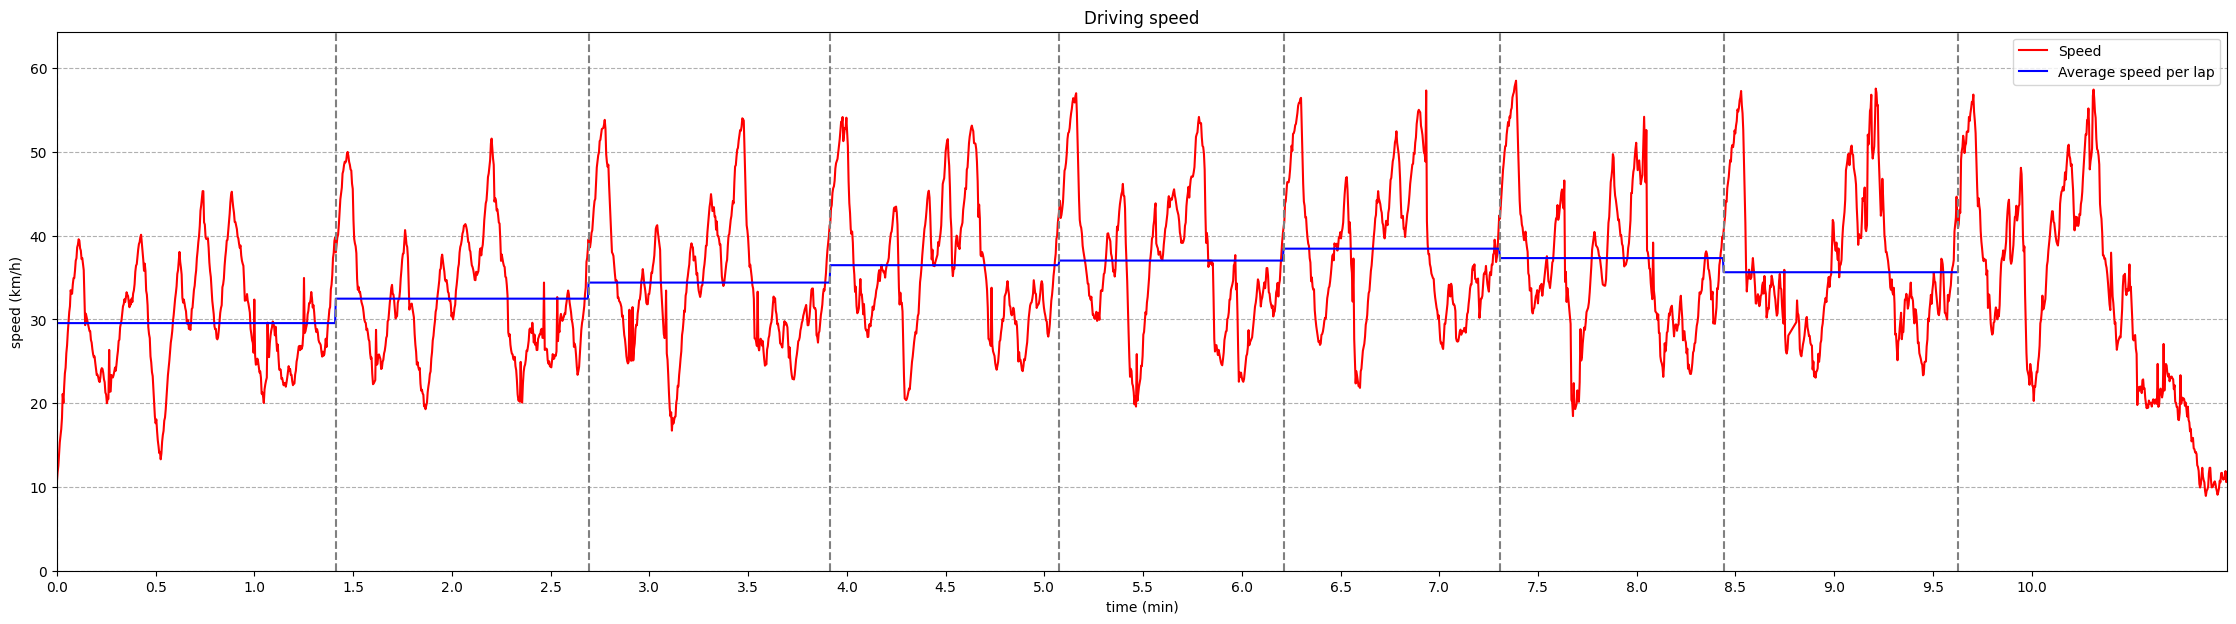
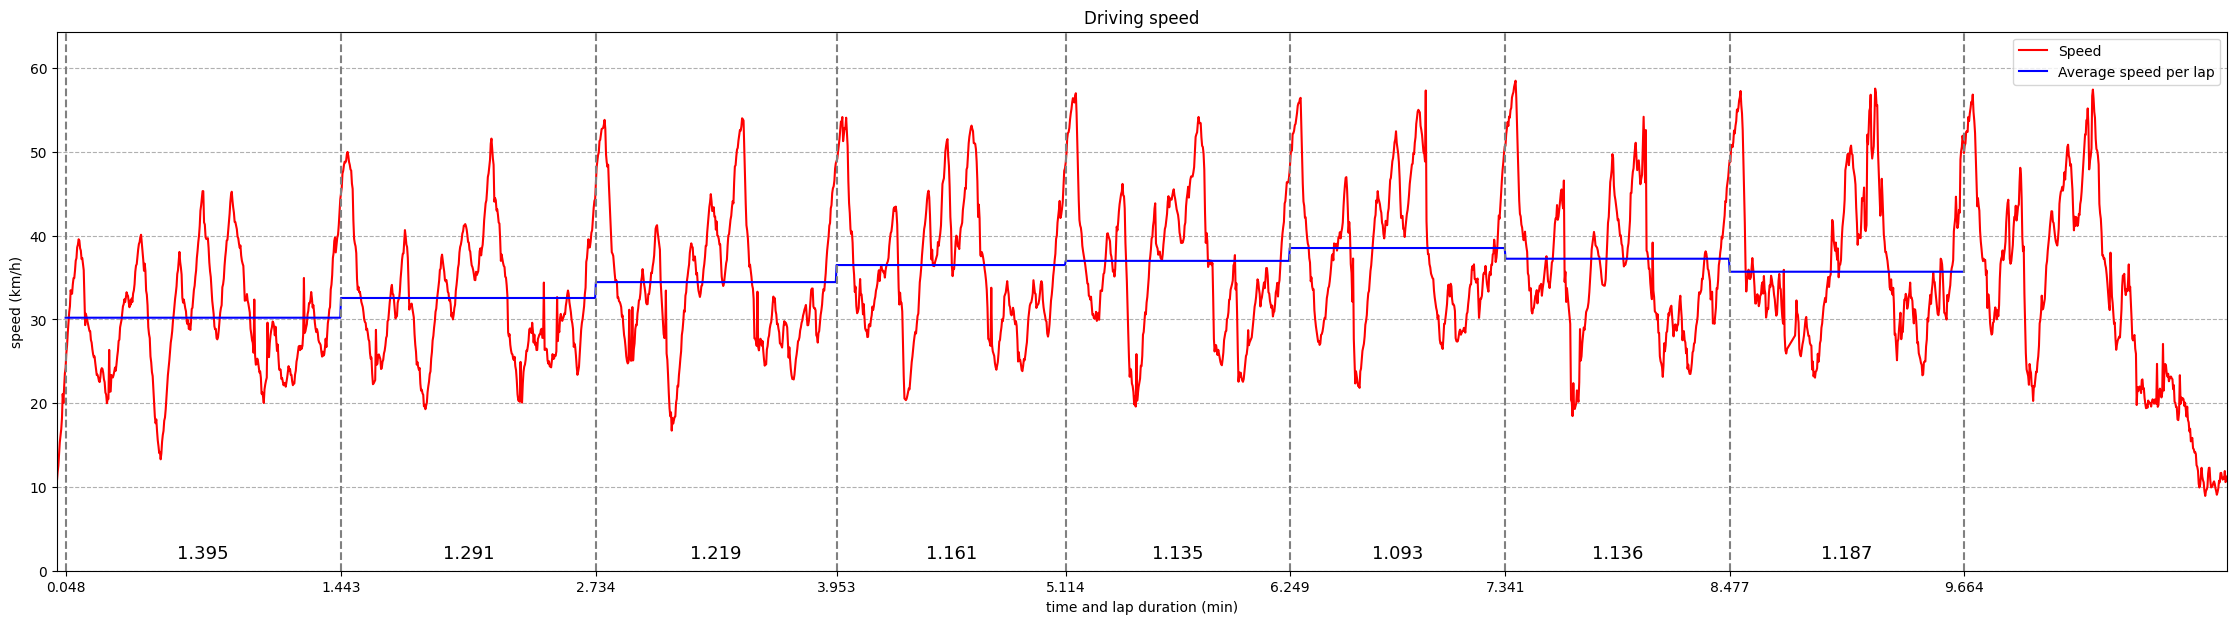
Update graphs

diff --git a/GPSAnalyzer/analyzeGPS.py b/GPSAnalyzer/analyzeGPS.py
@@ -121,7 +121,8 @@ class Analyzer:
         # Declare lap variables
         self.lap_batches = []
         self.num_detected_laps = 0
-        self.lap_average_speed_kmh = []
+        self.lap_average_speeds_kmh = []
+        self.lap_times_s = []
 
     def load_data_and_generate_graphs(self):
         """
@@ -386,23 +387,25 @@ class Analyzer:
         if self.verbose:
             print('num detected full laps:', self.num_detected_laps)
 
-        # Calculate average speeds for each lap
-        self.lap_average_speed_kmh = []
+        # Calculate average speeds and time for each lap
+        self.lap_average_speeds_kmh = []
+        self.lap_times_s = []
         for lap in range(self.num_detected_laps):
-            self.lap_average_speed_kmh.append(Analyzer.mps_to_kmh(
+
+            self.lap_average_speeds_kmh.append(Analyzer.mps_to_kmh(
                 sum(self.batch_dists_m[self.lap_batches[lap]:self.lap_batches[lap + 1]]) / \
                 (self.accumulated_batch_times_s[self.lap_batches[lap + 1]] -
                     self.accumulated_batch_times_s[self.lap_batches[lap]])))
 
+            self.lap_times_s.append(
+                self.accumulated_batch_times_s[self.lap_batches[lap + 1]] -
+                self.accumulated_batch_times_s[self.lap_batches[lap]])
+
         if self.verbose:
-            accumulated_batch_times_min = Analyzer.s_to_min(self.accumulated_batch_times_s)
-            print('lap #, time and avg speed')
+            lap_average_times_min = Analyzer.s_to_min(self.lap_times_s)
+            print('lap #, time min and avg speed kmh')
             for i in range(self.num_detected_laps):
-                print(
-                    i + 1,
-                    accumulated_batch_times_min[self.lap_batches[i + 1]] -
-                        accumulated_batch_times_min[self.lap_batches[i]],
-                    self.lap_average_speed_kmh[i])
+                print(i + 1, lap_average_times_min[i], self.lap_average_speeds_kmh[i])
 
     def __plot_speed_time_graph(self):
         """
@@ -417,29 +420,49 @@ class Analyzer:
 
         accumulated_batch_times_min = Analyzer.s_to_min(self.accumulated_batch_times_s)
 
+        lap_average_times_min = Analyzer.s_to_min(self.lap_times_s)
+
         lap_average_speed_kmh_graph = []
         for i in range(self.num_detected_laps):
-            lap_average_speed_kmh_graph += [self.lap_average_speed_kmh[i] for _ in range(self.lap_batches[i + 1] - self.lap_batches[i])]
+            lap_average_speed_kmh_graph += \
+                [self.lap_average_speeds_kmh[i] for _ in range(self.lap_batches[i + 1] - self.lap_batches[i])]
 
         # Prepare the figure
         fig, ax = plt.subplots(1, 1, figsize=(28, 7))
         ax.set_title('Driving speed')
-        ax.set_xlabel('time (min)')
+        ax.set_xlabel('time and lap duration (min)')
         ax.set_ylabel('speed (km/h)')
         ax.grid(axis='y', linestyle='--')
 
         # Plot speed line
         ax.plot(accumulated_batch_times_min, self.batch_speeds_kmh, color='red', label='Speed')
         # Plot horizontal average speed lines for each lap
-        ax.plot(accumulated_batch_times_min[self.lap_batches[0]:self.lap_batches[-1]], lap_average_speed_kmh_graph, color='blue', label='Average speed per lap')
+        ax.plot(
+            accumulated_batch_times_min[self.lap_batches[0]:self.lap_batches[-1]],
+            lap_average_speed_kmh_graph,
+            color='blue',
+            label='Average speed per lap')
         # Plot vertical lines marking individual laps
         for lap_batch in self.lap_batches:
             plt.axvline(x=accumulated_batch_times_min[lap_batch], color='gray', linestyle='--')
 
-        # Define axis values
+        # Define axis limits
         ax.set_ylim((0, max(self.batch_speeds_kmh) * 1.1))
         ax.set_xlim((accumulated_batch_times_min[0], accumulated_batch_times_min[-1]))
-        ax.set_xticks([x / 2.0 for x in range(int(max(accumulated_batch_times_min)) * 2 + 1)])
+
+        # Print absolute lap times on the x axis
+        lap_positions = [accumulated_batch_times_min[lap_batch] for lap_batch in self.lap_batches]
+        ax.set_xticks(lap_positions)
+
+        # Add each lap duration under the lap graph
+        for i in range(self.num_detected_laps):
+            ax.text(
+                (lap_positions[i] + lap_positions[i + 1]) / 2,
+                1,
+                '%.3f' % lap_average_times_min[i],
+                horizontalalignment='center',
+                verticalalignment='bottom',
+                fontsize=13)
 
         ax.legend()
         fig.savefig(os.path.join(self.out_directory, 'driving_speed.png'), bbox_inches='tight')
@@ -476,9 +499,12 @@ class Analyzer:
         fig, ax = plt.subplots(self.num_detected_laps, figsize=(11, 4 * self.num_detected_laps))
         for i in range(self.num_detected_laps):
             # Cut out the part of the data for the current lap
-            x_coords = [(x - min(lons)) / (max(lons) - min(lons)) for x in lons[self.lap_batches[i]:self.lap_batches[i + 1]]]
-            y_coords = [(x - min(lats)) / (max(lats) - min(lats)) for x in lats[self.lap_batches[i]:self.lap_batches[i + 1]]]
-            colors = cm.jet([x / max_recorded_speed for x in self.batch_speeds_kmh[self.lap_batches[i]:self.lap_batches[i + 1]]])
+            x_coords = \
+                [(x - min(lons)) / (max(lons) - min(lons)) for x in lons[self.lap_batches[i]:self.lap_batches[i + 1]]]
+            y_coords = \
+                [(x - min(lats)) / (max(lats) - min(lats)) for x in lats[self.lap_batches[i]:self.lap_batches[i + 1]]]
+            colors = cm.jet(
+                [x / max_recorded_speed for x in self.batch_speeds_kmh[self.lap_batches[i]:self.lap_batches[i + 1]]])
             # Plot out the current lap
             ax[i].set_title('Lap %d' % (i + 1))
             ax[i].scatter(x_coords, y_coords, color=colors)
